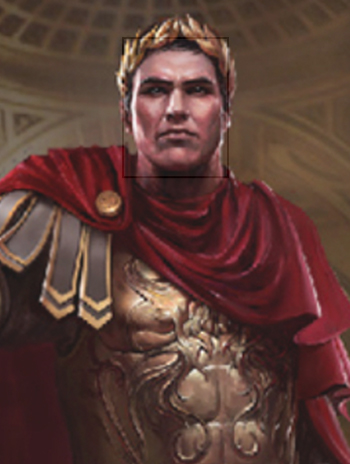
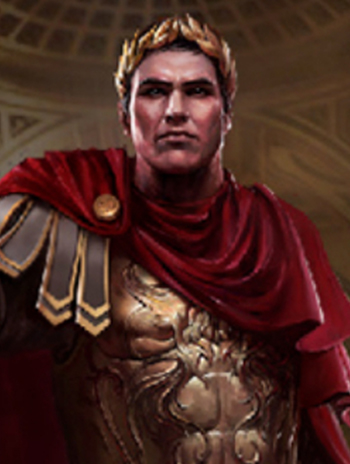
甘夫人更换前缀；凯撒素材替换

diff --git a/character/mobile/translate.js b/character/mobile/translate.js
@@ -900,8 +900,8 @@ const translates = {
 	mbjiwei_info: "锁定技。①其他角色的回合结束时，你摸X张牌（X为本回合满足的项数：1.至少[1]名角色失去过牌；2.至少[1]名角色受到过伤害）。②准备阶段，若所有角色均存活且你的手牌数不小于5，你将手牌中颜色较多的牌分配给任意名其他角色。",
 	mbjiwei_info_identity: "锁定技。①其他角色的回合结束时，若本回合有至少一名角色失去过牌，你摸一张牌。②准备阶段，若你的手牌数不小于Y，你将手牌中颜色较多的牌分配给任意名其他角色（Y为存活人数与你体力值的最大值）。",
 	mbjiwei_info_doudizhu: "锁定技。①其他角色的回合结束时，若本回合有：至少一名角色失去过牌，你摸一张牌；至少一名角色受到过伤害，你摸两张牌。②准备阶段，若所有角色均存活且你的手牌数不小于5，你将手牌中颜色较多的牌分配给任意名其他角色。",
-	mb_sp_ganfuren: "手杀SP甘夫人",
-	mb_sp_ganfuren_prefix: "手杀SP",
+	mb_ganfuren: "手杀甘夫人",
+	mb_ganfuren_prefix: "手杀",
 	mbzhijie: "智诫",
 	mbzhijie_info: "每轮限一次，一名角色的出牌阶段开始时，你可以展示其一张手牌。本阶段其使用与此牌类别相同的牌后，其摸一张牌并弃置X张牌（X为其本回合使用此牌类型的次数-1）；此阶段结束时，若其阶段因此获得的牌数大于因此弃置的牌数，你与其各摸一张牌。",
 	mbshushen: "淑慎",

diff --git a/character/mobile/sort.js b/character/mobile/sort.js
@@ -9,7 +9,7 @@ const characterSort = {
 	mobile_sp11: ["fuqian", "qiaozhou", "ruanhui", "sp_caosong", "sp_maojie", "wangjun", "yanpu", "mayuanyi", "xin_mamidi"],
 	mobile_sp12: ["hujinding", "lifeng", "zhaotongzhaoguang", "wangyuanji", "yanghuiyu", "liuye", "simazhao", "zhuling", "yangbiao"],
 	mobile_sp13: ["sp_pengyang", "liwei", "xin_guozhao", "qianzhao", "peixiu", "yanxiang", "xin_hansui", "yangfu"],
-	mobile_sp_default: ["mb_sp_ganfuren","mb_sp_zhenji", "mb_xianglang", "xin_wuban", "laimin", "xin_huojun", "mb_huban", "sp_jianggan", "jiangji", "zhangbu", "muludawang", "yangfeng", "mb_chengui", "baoxin"],
+	mobile_sp_default: ["mb_ganfuren","mb_sp_zhenji", "mb_xianglang", "xin_wuban", "laimin", "xin_huojun", "mb_huban", "sp_jianggan", "jiangji", "zhangbu", "muludawang", "yangfeng", "mb_chengui", "baoxin"],
 	mobile_xlqk1: ["lingcao", "sunru", "liuzan"],
 	mobile_xlqk2: ["pangdegong", "miheng"],
 	mobile_xlqk3: ["majun", "zhengxuan", "simashi"],

diff --git a/character/sp/characterReplace.js b/character/sp/characterReplace.js
@@ -52,7 +52,7 @@ const characterReplaces = {
 	yuantanyuanshang: ["yuantanyuanshang", "yuantanyuanxiyuanshang"],
 	ruiji: ["ruiji", "dc_ruiji"],
 	jsp_huangyueying: ["jsp_huangyueying", "re_jsp_huangyueying"],
-	ganfuren: ["ganfuren", "dc_ganfuren", "jsp_ganfuren", "mb_sp_ganfuren"],
+	ganfuren: ["ganfuren", "dc_ganfuren", "jsp_ganfuren", "mb_ganfuren"],
 	zhouqun: ["ol_zhouqun", "zhouqun"],
 	qianzhao: ["ol_qianzhao", "qianzhao"],
 	ol_pengyang: ["ol_pengyang", "sp_pengyang", "std_pengyang"],

diff --git a/character/mobile/character.js b/character/mobile/character.js
@@ -1,5 +1,5 @@
 const characters = {
-	mb_sp_ganfuren: ["female", "shu", 3, ["mbzhijie", "mbshushen"]],
+	mb_ganfuren: ["female", "shu", 3, ["mbzhijie", "mbshushen"]],
 	mb_sp_zhenji: ["female", "qun", 3, ["mbbojian", "mbjiwei"]],
 	mb_zhangfen: ["male", "wu", 4, ["mbquchong", "mbxunjie"]],
 	mb_jiachong: ["male", "qun", 3, ["mbbeini", "mbdingfa"], ["border:jin", "die:jiachong"]],

diff --git a/character/rank.js b/character/rank.js
@@ -1296,7 +1296,7 @@ window.noname_character_rank = {
 		"ol_sb_huaxiong",
 	],
 	b: [
-		"mb_sp_ganfuren",
+		"mb_ganfuren",
 		"ol_niufu",
 		"chenggongying",
 		"jiangziya",
@@ -2443,7 +2443,7 @@ window.noname_character_rank = {
 			"niufu",
 		],
 		rare: [
-			"mb_sp_ganfuren",
+			"mb_ganfuren",
 			"dongxie",
 			"ol_dongxie",
 			"ol_hanfu",
